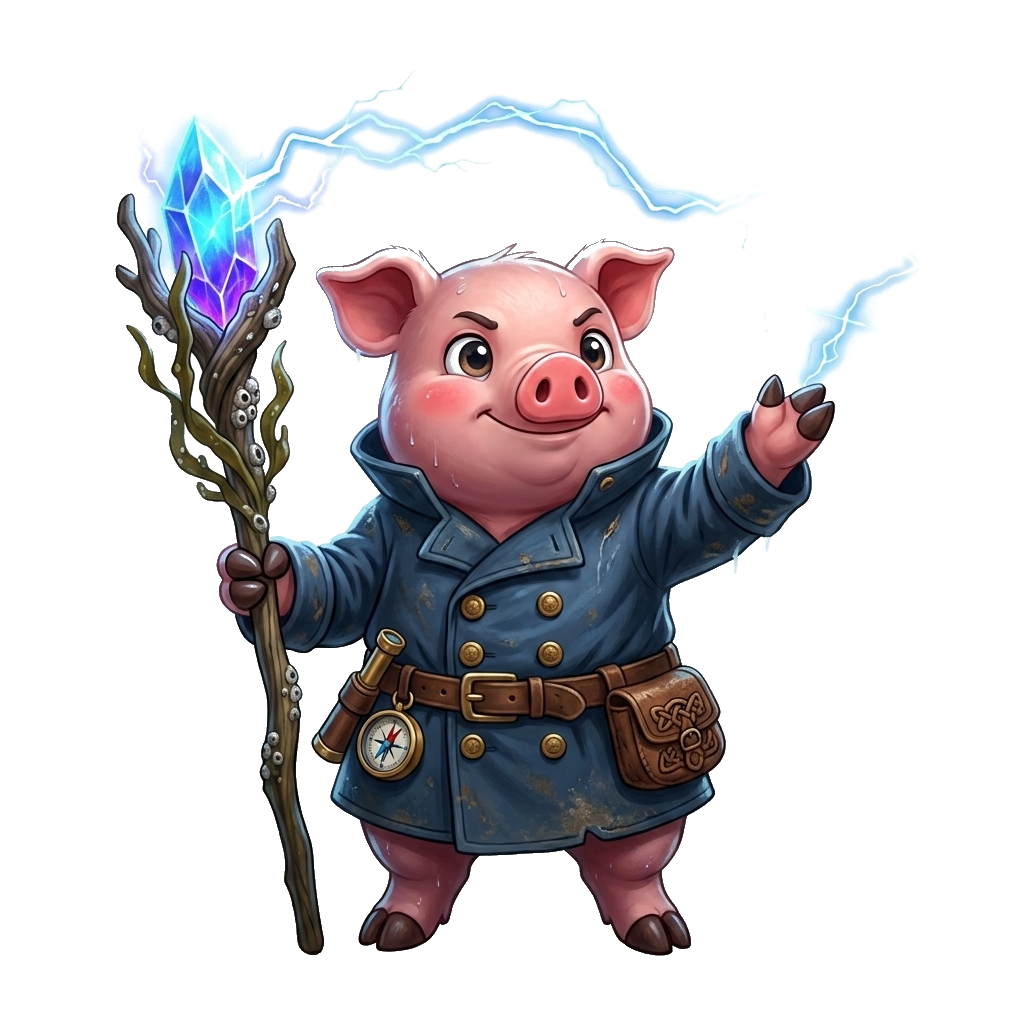
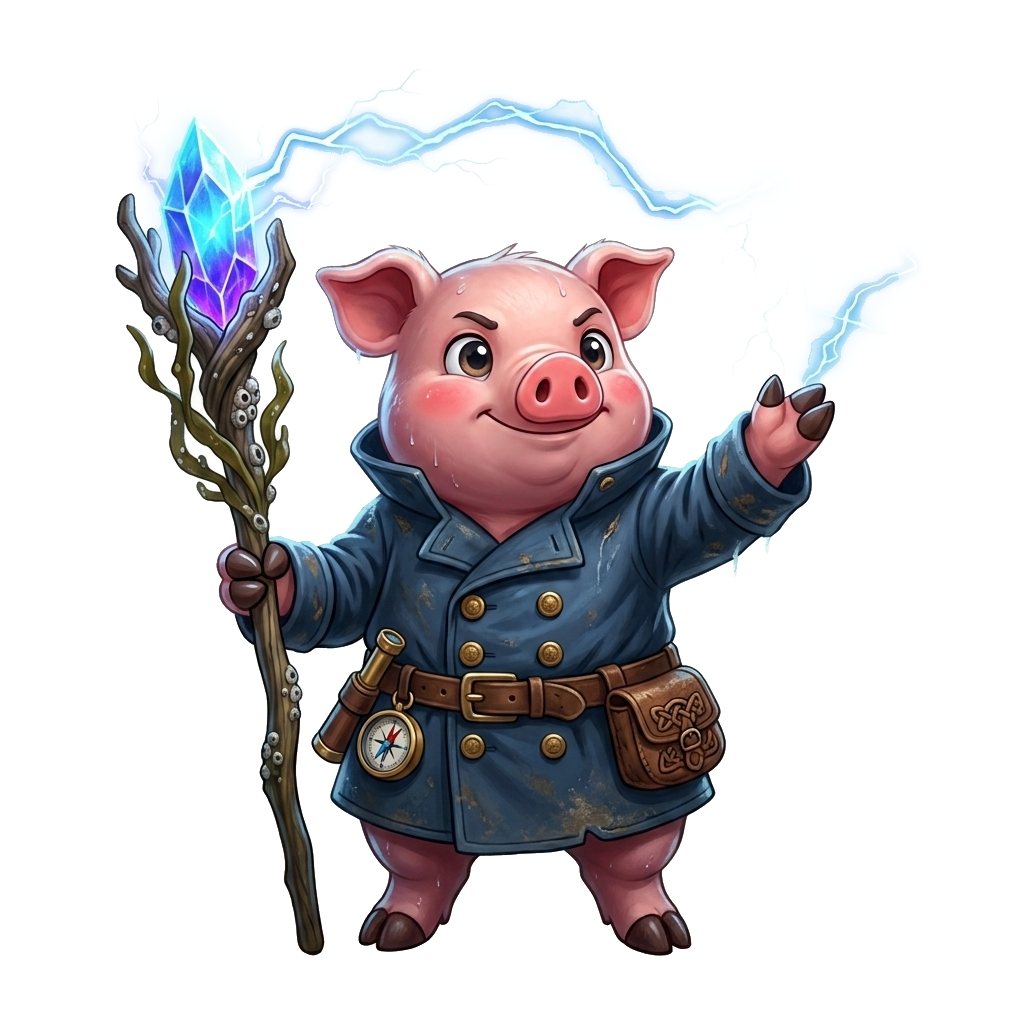
Ajusta tamanos individuales de personajes en la grilla del blog
Historia y Ahorro se veian mas grandes de lo que correspondia y Mitos,
Inversion y Crisis mas chicos, aun con el mismo ancho de referencia,
por la forma/pose de cada personaje. Se ajusto cada uno a ojo tomando
Cripto y Deuda y Credito como tamano de referencia.

Se reemplazo ademas la ilustracion del Domador de Tormentas (Crisis)
por una version nueva.

diff --git a/docs/blog/index.html b/docs/blog/index.html
@@ -169,7 +169,7 @@
               <span style="font-weight:700;font-size:12px;color:rgba(255,255,255,.68);">Por El Griego</span>
             </div>
           </div>
-          <img src="./assets/char-griego-card.png" alt="El Griego" style="position:absolute;right:-10px;bottom:-14px;width:175px;height:auto;pointer-events:none;filter:drop-shadow(0 14px 16px rgba(15,8,4,.4));z-index:3;">
+          <img src="./assets/char-griego-card.png" alt="El Griego" style="position:absolute;right:-10px;bottom:-14px;width:148px;height:auto;pointer-events:none;filter:drop-shadow(0 14px 16px rgba(15,8,4,.4));z-index:3;">
         </a>
 
         <a href="./articulos/mitos-que-cuestan-caro.html" style="display:block;position:relative;">
@@ -182,7 +182,7 @@
               <span style="font-weight:700;font-size:12px;color:rgba(255,255,255,.68);">Por el Cazador de Mitos</span>
             </div>
           </div>
-          <img src="./assets/char-mito-card.png" alt="Cazador de Mitos" style="position:absolute;right:-10px;bottom:-14px;width:175px;height:auto;pointer-events:none;filter:drop-shadow(0 14px 16px rgba(10,4,16,.4));z-index:3;">
+          <img src="./assets/char-mito-card.png" alt="Cazador de Mitos" style="position:absolute;right:-10px;bottom:-14px;width:198px;height:auto;pointer-events:none;filter:drop-shadow(0 14px 16px rgba(10,4,16,.4));z-index:3;">
         </a>
 
         <a href="./articulos/acciones-bonos-cedears.html" style="display:block;position:relative;">
@@ -195,7 +195,7 @@
               <span style="font-weight:700;font-size:12px;color:rgba(255,255,255,.68);">Por la Inversora Pro</span>
             </div>
           </div>
-          <img src="./assets/char-inversor-pro-card.png" alt="Inversora Pro" style="position:absolute;right:-10px;bottom:-14px;width:175px;height:auto;pointer-events:none;filter:drop-shadow(0 14px 16px rgba(4,12,10,.4));z-index:3;">
+          <img src="./assets/char-inversor-pro-card.png" alt="Inversora Pro" style="position:absolute;right:-10px;bottom:-14px;width:203px;height:auto;pointer-events:none;filter:drop-shadow(0 14px 16px rgba(4,12,10,.4));z-index:3;">
         </a>
 
         <a href="./articulos/fondo-de-emergencia.html" style="display:block;position:relative;">
@@ -208,7 +208,7 @@
               <span style="font-weight:700;font-size:12px;color:rgba(255,255,255,.68);">Por la Guardiana del Ahorro</span>
             </div>
           </div>
-          <img src="./assets/char-ahorro-card.png" alt="Guardiana del Ahorro" style="position:absolute;right:-10px;bottom:-14px;width:175px;height:auto;pointer-events:none;filter:drop-shadow(0 14px 16px rgba(6,14,10,.4));z-index:3;">
+          <img src="./assets/char-ahorro-card.png" alt="Guardiana del Ahorro" style="position:absolute;right:-10px;bottom:-14px;width:145px;height:auto;pointer-events:none;filter:drop-shadow(0 14px 16px rgba(6,14,10,.4));z-index:3;">
         </a>
 
         <a href="./articulos/burbujas-crashes-panicos.html" style="display:block;position:relative;">
@@ -221,7 +221,7 @@
               <span style="font-weight:700;font-size:12px;color:rgba(255,255,255,.68);">Por el Domador de Tormentas</span>
             </div>
           </div>
-          <img src="./assets/char-domador-card.png" alt="Domador de Tormentas" style="position:absolute;right:-10px;bottom:-14px;width:175px;height:auto;pointer-events:none;filter:drop-shadow(0 14px 16px rgba(14,6,4,.4));z-index:3;">
+          <img src="./assets/char-domador-card.png" alt="Domador de Tormentas" style="position:absolute;right:-10px;bottom:-14px;width:178px;height:auto;pointer-events:none;filter:drop-shadow(0 14px 16px rgba(14,6,4,.4));z-index:3;">
         </a>
 
         <a href="./articulos/bitcoin-en-criollo.html" style="display:block;position:relative;">
